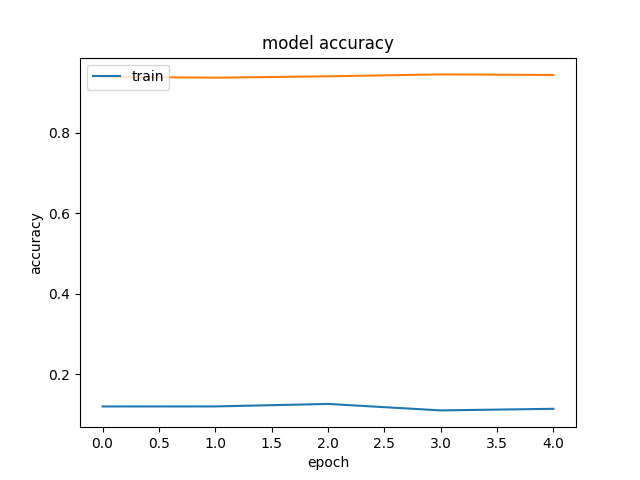
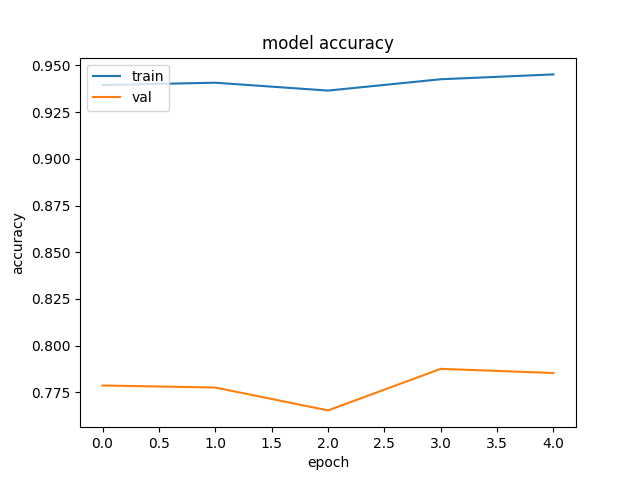
Adds more input config, basic animation of optimizers

diff --git a/lab1/autonomous/lab1.py b/lab1/autonomous/lab1.py
@@ -1,8 +1,14 @@
 from __future__ import division
+
 import numpy as np
+
 import matplotlib
 import matplotlib.pyplot as plt
+from matplotlib.colors import LogNorm
+from matplotlib import animation
+
 import keras
+from keras import activations
 from keras.datasets import reuters
 from keras.layers import Dense, Dropout, Activation
 from keras.models import model_from_json
@@ -11,12 +17,51 @@ from keras.preprocessing.text import Tokenizer
 from keras.utils import plot_model
 from sklearn.metrics import classification_report,confusion_matrix
 
+from vis.losses import ActivationMaximization
+from vis.regularizers import TotalVariation, LPNorm
+from vis.optimizer import Optimizer
+from vis.utils import utils
+from vis.visualization import visualize_saliency
+
+from vis.callbacks import GifGenerator
+#from vis.utils.vggnet import VGG16
+
+from mpl_toolkits.mplot3d import Axes3D
+#from IPython.display import HTML
+
+from autograd import elementwise_grad, value_and_grad
+from scipy.optimize import minimize
+from collections import defaultdict
+from itertools import izip_longest
+from functools import partial
+
 # Basic config
 max_words = 1000
 batch_size = 32
 epochs = 5
+results_history = []
+results_score = []
+results_acc = []
+path_ = []
 
 print 'Using Keras version', keras.__version__
+
+np.random.seed(1)
+
+parser = argparse.ArgumentParser(
+	description='Uses the Reuters dataset to compare the results of different optimization functions')
+	
+parser.add_argument('-w', '--words', action='store_true', default=1000,
+	help='max words to use (default: 1000)')
+parser.add_argument('-b', '--batch_size', action='store_true', default=32,
+	help='size of batches to use (default: 32)')
+parser.add_argument('-e', '--epochs', action='store_true', default=5,
+	help='amount of epochs to use (default: 5)')
+parser.add_argument('-f', '--test_function', action='store_true', default=False,
+	help='visualize optimizations using test functions (default: false)')
+
+
+args = parser.parse_args()
 
 def calculateModel(model, x_train, x_test, y_train, y_test, optimizer, epochs) :
 
@@ -35,24 +80,32 @@ def calculateModel(model, x_train, x_test, y_train, y_test, optimizer, epochs) :
 	                       batch_size=batch_size, verbose=1)
 
 	print 'Test score:', score[0]
-	print 'Test accuracy:', score[1]
+	print ' Test accuracy:', score[1]
+
+	results_score.append(score[0])
+	results_acc.append(score[1])
+	results_history.append(history)
+
+	#vis(model, x_train, x_test, y_train, y_test, optimizer)
 
 	#Accuracy plot
 	plt.plot(history.history['acc'])
+	plt.plot(history.history['val_acc'])
 	plt.title('model accuracy')
 	plt.ylabel('accuracy')
 	plt.xlabel('epoch')
-	plt.legend(['train'], loc='upper left')
+	plt.legend(['train', 'val'], loc='upper left')
 	plt.savefig('results/model_accuracy_' + optimizer +'.png')
 	plt.close()
 	#Loss plot
 	plt.plot(history.history['loss'])
+	plt.plot(history.history['val_loss'])
 	plt.title('model loss')
 	plt.ylabel('loss')
 	plt.xlabel('epoch')
-	plt.legend(['train'], loc='upper left')
+	plt.legend(['train', 'val'], loc='upper left')
 	plt.savefig('results/model_loss_' + optimizer + '.png')
-
+	plt.close()
 	#plot_model(model, to_file='results/model_' + optimizer + '.png')
 
 	f = open('results/results.txt', 'a+')
@@ -62,8 +115,149 @@ def calculateModel(model, x_train, x_test, y_train, y_test, optimizer, epochs) :
 	
 	return
 
+def vis(model, x_train, x_test, y_train, y_test, optimizer):
+
+	class_idx = 0
+	indices = np.where(y_test[:, class_idx] == 1.)[0]
+
+	# pick some random input from here.
+	idx = indices[0]
+	# Utility to search for layer index by name. 
+	# Alternatively we can specify this as -1 since it corresponds to the last layer.
+	layer_idx = utils.find_layer_idx(model, 'preds')
+
+	# Swap softmax with linear
+	model.layers[layer_idx].activation = activations.linear
+	model = utils.apply_modifications(model)
+
+	grads = visualize_saliency(model, layer_idx, filter_indices=class_idx, seed_input=x_test[idx])
+	# Plot with 'jet' colormap to visualize as a heatmap.
+	
+	plt.savefig('results/vis1_' + optimizer + '.png')
+
+	for class_idx in np.arange(10):    
+		indices = np.where(y_test[:, class_idx] == 1.)[0]
+		idx = indices[0]
+
+		f, ax = plt.subplots(1, 4)
+		ax[0].imshow(x_test[idx][..., 0])
+		ax[0].savefig('results/vis2_' + optimizer + '.png')
+
+		for i, modifier in enumerate([None, 'guided', 'relu']):
+			grads = visualize_saliency(model, layer_idx, filter_indices=class_idx, 
+						seed_input=x_test[idx], backprop_modifier=modifier)
+			if modifier is None:
+				modifier = 'vanilla'
+			ax[i+1].set_title(modifier)    
+			ax[i+1].imshow(grads, cmap='jet')
+			ax[i+1].savefig('results/vis3_' + optimizer + '.png')
+	return
+
+def init():
+    line.set_data([], [])
+    line.set_3d_properties([])
+    point.set_data([], [])
+    point.set_3d_properties([])
+    return line, point
+
+def animate(i):
+    line.set_data(path[0,:i], path[1,:i])
+    line.set_3d_properties(f(*path[::,:i]))
+    point.set_data(path[0,i-1:i], path[1,i-1:i])
+    point.set_3d_properties(f(*path[::,i-1:i]))
+    return line, point
+
+def make_minimize_cb(path=[]):
+    
+    def minimize_cb(xk):
+        # note that we make a deep copy of xk
+        path.append(np.copy(xk))
+
+    return minimize_cb
+
+def visOptimizations(conf):
+	bealeFunction(conf)
+	return
+
+def bealeFunction(conf): 
+	f  = lambda x, y: (1.5 - x + x*y)**2 + (2.25 - x + x*y**2)**2 + (2.625 - x + x*y**3)**2
+
+	xmin, xmax, xstep = -4.5, 4.5, .2
+	ymin, ymax, ystep = -4.5, 4.5, .2
+	x, y = np.meshgrid(np.arange(xmin, xmax + xstep, xstep), np.arange(ymin, ymax + ystep, ystep))
+	z = f(x, y)
+	minima = np.array([3., .5])
+	minima_ = minima.reshape(-1, 1)
+
+	x0 = np.array([3., 4.])
+	func = value_and_grad(lambda args: f(*args))
+
+	path_ = [x0]
+
+	res = minimize(func, x0=x0, method='Newton-CG',
+               jac=True, tol=1e-20, callback=make_minimize_cb(path_))
+
+
+	path = np.array(path_).T
+
+	#3D surface plot
+	fig = plt.figure(figsize=(8, 5))
+	ax = plt.axes(projection='3d', elev=50, azim=-50)
+
+	ax.plot_surface(x, y, z, norm=LogNorm(), rstride=1, cstride=1, edgecolor='none', alpha=.8, cmap=plt.cm.jet)
+	ax.plot(minima_[0], minima_[1], f(minima_[0], minima_[1]), 'r*', markersize=10)
+
+	line, = ax.plot([], [], [], 'b', label='Newton-CG', lw=2)
+	point, = ax.plot([], [], [], 'bo')
+
+	ax.set_xlabel('$x$')
+	ax.set_ylabel('$y$')
+	ax.set_zlabel('$z$')
+
+	ax.set_xlim((xmin, xmax))
+	ax.set_ylim((ymin, ymax))
+
+	anim = animation.FuncAnimation(fig, animate, init_func=init,
+                               frames=path.shape[1], interval=60, 
+                               repeat_delay=5, blit=True)
+	anim.save('basic_animation.mp4', fps=30, extra_args=['-vcodec', 'libx264'])
+
+	return
+
+def comPlot(results_history, results_score, results_acc, conf): 
+	for history in results_history:
+		plt.plot(history.history['acc'])
+	plt.legend(['sgd','adam','rmsprop','adagrad','adamax','adadelta','nadam'], loc='upper left')
+	plt.title('model accuracy')
+	plt.ylabel('accuracy')
+	plt.xlabel('epoch')
+	plt.savefig('results/total_model_accuracy.png')
+	plt.close()
+
+	x = [0,1,2,3,4,5,6]
+
+	plt.scatter(x, results_score)
+	for i,c in enumerate(conf):
+		plt.annotate(c, (x[i], results_score[i]))
+
+	plt.title('model score')
+	plt.savefig('results/total_opt_score.png')
+	plt.close()
+
+	plt.scatter(x, results_acc)
+	for i,c in enumerate(conf):
+		plt.annotate(c, (x[i], results_acc[i]))
+
+	plt.title('optimization accuracy')
+	plt.savefig('results/total_opt_acc.png')
+	plt.close()
+	return
+
 def main():
 
+	max_words = args.words
+	epochs = args.epochs
+	batch_size = args.batch_size
 	# Loads reuters dataset 
 	# Dataset of 11,228 newswires from Reuters, labeled over 46 topics.
 	# Each wire is encoded as a sequence of word indexes.
@@ -77,7 +271,7 @@ def main():
 	# https://keras.io/datasets/
 	# https://keras.io/preprocessing/sequence/
 
-	(x_train, y_train), (x_test, y_test) = reuters.load_data(path="reuters.npz",
+	(x_train, y_train), (x_test, y_test)  = reuters.load_data(path="reuters.npz",
 		num_words=None,skip_top=0,maxlen=None,test_split=0.2,seed=113,start_char=1,
 		oov_char=2,index_from=3)
 
@@ -126,14 +320,18 @@ def main():
 	model.add(Dense(512, input_shape=(max_words,)))
 	model.add(Activation('relu'))
 	model.add(Dropout(0.5))
-	model.add(Dense(num_classes))
-	model.add(Activation('softmax'))
+	model.add(Dense(num_classes, activation='softmax', name='preds'))
+	#model.add(Activation('softmax'))
 
 	conf = ['sgd','adam','rmsprop','adagrad','adamax','adadelta','nadam']
 
-	for o in conf:
-		calculateModel(model, x_train, x_test, y_train, y_test, o, epochs)
+	#for o in conf:
+		#calculateModel(model, x_train, x_test, y_train, y_test, o, epochs)
 
+	#comPlot(results_history, results_score, results_acc, conf)
+
+	#if args.test_function:
+	visOptimizations()
 
 if __name__ == '__main__':
 	main()
